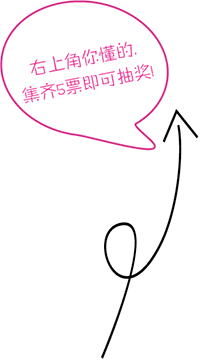
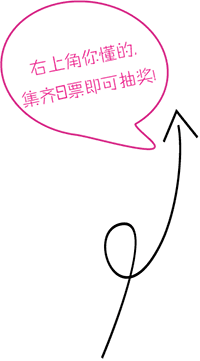
ddd

Changed region(s): [[0.09, 0.1828, 0.78, 0.3047]]

diff --git a/tpl/Wap/default/common/womenwheel/css/common.css b/tpl/Wap/default/common/womenwheel/css/common.css
@@ -70,7 +70,7 @@ input,textarea,select,button{font-size:1em;}
 .fz40{font-size:40px;}
 
 .advertising{position: absolute;right: 0.1rem;top: 0.1rem; background: #ce292c;color: #fff;padding:0.01rem 0.06rem;-moz-border-radius: 0.03rem;-webkit-border-radius: 0.03rem;border-radius: 0.03rem; z-index:9;font-size: 0.2rem;}
-.common-people{background: url(../images/b/img01.png?v=1) no-repeat; background-size:100% 100%; height: 1.5rem;
+.common-people{background: url(../images/b/img01.png?v=2) no-repeat; background-size:100% 100%; height: 1.5rem;
     width: 100%;
     bottom: 0rem;
     right: 0;
@@ -464,7 +464,7 @@ input,textarea,select,button{font-size:1em;}
     line-height: 0.55rem;color:#000;width:2.5rem;vertical-align: top;}
 .btns-box-share .need-vote span{color:#f14da6;    font-size: 0.45rem;    font-weight: bold;}
 
-.btns-box-share .btn-out .share-notice{background: url(../images/b/img05.png) no-repeat; background-size:100% auto;     height: 4.2rem;
+.btns-box-share .btn-out .share-notice{background: url(../images/b/img05.png?v=1) no-repeat; background-size:100% auto;     height: 4.2rem;
     width: 2.5rem;
     bottom: 0.7rem;
     right: 0;

diff --git a/tpl/Wap/default/Womenwheel_form.html b/tpl/Wap/default/Womenwheel_form.html
@@ -7,10 +7,10 @@
 <meta name="keywords" content="">
 <meta name="viewport" content="width=device-width, initial-scale=1, user-scalable=no">
     <title>闪亮女神魅力，转动你的“膜”丽小确幸！</title>
-    <link href="{pigcms::RES}/womenwheel/css/animate.css?v=201702272102" rel="stylesheet" type="text/css" />
-    <link href="{pigcms::RES}/womenwheel/css/common.css?v=201702272102" rel="stylesheet" type="text/css" />
+    <link href="{pigcms::RES}/womenwheel/css/animate.css?v=201702282102" rel="stylesheet" type="text/css" />
+    <link href="{pigcms::RES}/womenwheel/css/common.css?v=201702282102" rel="stylesheet" type="text/css" />
     <script src="{pigcms::RES}/womenwheel/js/zepto.min.js" type="text/javascript"></script>
-    <script src="{pigcms::RES}/womenwheel/js/common.js?v=201702272102" type="text/javascript"></script>
+    <script src="{pigcms::RES}/womenwheel/js/common.js?v=201702282102" type="text/javascript"></script>
 <script src="http://res.wx.qq.com/open/js/jweixin-1.0.0.js" type="text/javascript"></script>
 <script>
     wx.config({

diff --git a/tpl/Wap/default/Womenwheel_index.html b/tpl/Wap/default/Womenwheel_index.html
@@ -9,10 +9,10 @@
     <meta name="keywords" content="" />
     <meta name="description" content="" />
     <title>闪亮女神魅力，转动你的“膜”丽小确幸！</title>
-    <link href="{pigcms::RES}/womenwheel/css/animate.css?v=201702272102" rel="stylesheet" type="text/css" />
-    <link href="{pigcms::RES}/womenwheel/css/common.css?v=201702272102" rel="stylesheet" type="text/css" />
+    <link href="{pigcms::RES}/womenwheel/css/animate.css?v=201702282102" rel="stylesheet" type="text/css" />
+    <link href="{pigcms::RES}/womenwheel/css/common.css?v=201702282102" rel="stylesheet" type="text/css" />
     <script src="{pigcms::RES}/womenwheel/js/zepto.min.js" type="text/javascript"></script>
-    <script src="{pigcms::RES}/womenwheel/js/common.js?v=201702272102" type="text/javascript"></script>
+    <script src="{pigcms::RES}/womenwheel/js/common.js?v=201702282102" type="text/javascript"></script>
     <script src="http://res.wx.qq.com/open/js/jweixin-1.0.0.js" type="text/javascript"></script>
 <script>
     wx.config({

diff --git a/tpl/Wap/default/Womenwheel_rule.html b/tpl/Wap/default/Womenwheel_rule.html
@@ -9,10 +9,10 @@
     <meta name="keywords" content="" />
     <meta name="description" content="" />
     <title>闪亮女神魅力，转动你的“膜”丽小确幸！</title>
-    <link href="{pigcms::RES}/womenwheel/css/animate.css?v=201702272102" rel="stylesheet" type="text/css" />
-    <link href="{pigcms::RES}/womenwheel/css/common.css?v=201702272102" rel="stylesheet" type="text/css" />
+    <link href="{pigcms::RES}/womenwheel/css/animate.css?v=201702282102" rel="stylesheet" type="text/css" />
+    <link href="{pigcms::RES}/womenwheel/css/common.css?v=201702282102" rel="stylesheet" type="text/css" />
     <script src="{pigcms::RES}/womenwheel/js/zepto.min.js" type="text/javascript"></script>
-    <script src="{pigcms::RES}/womenwheel/js/common.js?v=201702272102" type="text/javascript"></script>
+    <script src="{pigcms::RES}/womenwheel/js/common.js?v=201702282102" type="text/javascript"></script>
     <script src="http://res.wx.qq.com/open/js/jweixin-1.0.0.js" type="text/javascript"></script>
 <script>
     wx.config({

diff --git a/tpl/Wap/default/Womenwheel_share.html b/tpl/Wap/default/Womenwheel_share.html
@@ -9,10 +9,10 @@
     <meta name="keywords" content="" />
     <meta name="description" content="" />
     <title>闪亮女神魅力，转动你的“膜”丽小确幸！</title>
-    <link href="{pigcms::RES}/womenwheel/css/animate.css?v=201702272102" rel="stylesheet" type="text/css" />
-    <link href="{pigcms::RES}/womenwheel/css/common.css?v=201702272102" rel="stylesheet" type="text/css" />
+    <link href="{pigcms::RES}/womenwheel/css/animate.css?v=201702282102" rel="stylesheet" type="text/css" />
+    <link href="{pigcms::RES}/womenwheel/css/common.css?v=201702282102" rel="stylesheet" type="text/css" />
     <script src="{pigcms::RES}/womenwheel/js/zepto.min.js" type="text/javascript"></script>
-    <script src="{pigcms::RES}/womenwheel/js/common.js?v=201702272102" type="text/javascript"></script>
+    <script src="{pigcms::RES}/womenwheel/js/common.js?v=201702282102" type="text/javascript"></script>
     <script src="http://res.wx.qq.com/open/js/jweixin-1.0.0.js" type="text/javascript"></script>
 <script>
     wx.config({

diff --git a/tpl/Wap/default/Womenwheel_sharefriend.html b/tpl/Wap/default/Womenwheel_sharefriend.html
@@ -9,10 +9,10 @@
     <meta name="keywords" content="" />
     <meta name="description" content="" />
     <title>闪亮女神魅力，转动你的“膜”丽小确幸！</title>
-    <link href="{pigcms::RES}/womenwheel/css/animate.css?v=201702272102" rel="stylesheet" type="text/css" />
-    <link href="{pigcms::RES}/womenwheel/css/common.css?v=201702272102" rel="stylesheet" type="text/css" />
+    <link href="{pigcms::RES}/womenwheel/css/animate.css?v=201702282102" rel="stylesheet" type="text/css" />
+    <link href="{pigcms::RES}/womenwheel/css/common.css?v=201702282102" rel="stylesheet" type="text/css" />
     <script src="{pigcms::RES}/womenwheel/js/zepto.min.js" type="text/javascript"></script>
-    <script src="{pigcms::RES}/womenwheel/js/common.js?v=201702272102" type="text/javascript"></script>
+    <script src="{pigcms::RES}/womenwheel/js/common.js?v=201702282102" type="text/javascript"></script>
     <script src="http://res.wx.qq.com/open/js/jweixin-1.0.0.js" type="text/javascript"></script>
 <script>
     wx.config({

diff --git a/tpl/Wap/default/Womenwheel_success.html b/tpl/Wap/default/Womenwheel_success.html
@@ -9,10 +9,10 @@
     <meta name="keywords" content="" />
     <meta name="description" content="" />
     <title>闪亮女神魅力，转动你的“膜”丽小确幸！</title>
-    <link href="{pigcms::RES}/womenwheel/css/animate.css?v=201702272102" rel="stylesheet" type="text/css" />
-    <link href="{pigcms::RES}/womenwheel/css/common.css?v=201702272102" rel="stylesheet" type="text/css" />
+    <link href="{pigcms::RES}/womenwheel/css/animate.css?v=201702282102" rel="stylesheet" type="text/css" />
+    <link href="{pigcms::RES}/womenwheel/css/common.css?v=201702282102" rel="stylesheet" type="text/css" />
     <script src="{pigcms::RES}/womenwheel/js/zepto.min.js" type="text/javascript"></script>
-    <script src="{pigcms::RES}/womenwheel/js/common.js?v=201702272102" type="text/javascript"></script>
+    <script src="{pigcms::RES}/womenwheel/js/common.js?v=201702282102" type="text/javascript"></script>
     <script src="http://res.wx.qq.com/open/js/jweixin-1.0.0.js" type="text/javascript"></script>
 <script>
     wx.config({
